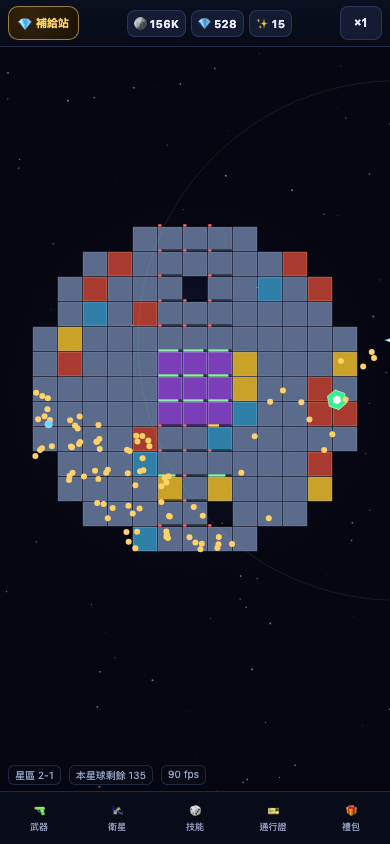
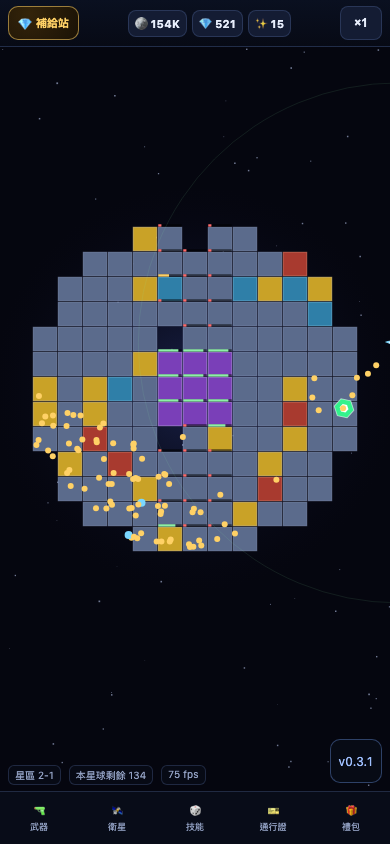
feat(v0.3.1): 右下角版本徽章 + 版本資訊彈窗 + version.json
- 遊戲畫面右下角顯示 v0.3.1（52×44px，由 CFG.VERSION 渲染，不會與程式不同步）
- 點徽章開版本資訊：版本／存檔版本／武器·衛星·通行證數量／星區／已擊破
- 新增 version.json（name/version/saveVersion/commit/build），線上可直接查
- 徽章 z-index 20 低於彈窗 30，彈窗打開時不會壓在內容上
- tests/test_ui.py 加 4 項（徽章文字＝CFG.VERSION、≥44px、彈窗內容、version.json 存在）

diff --git a/js/ui.js b/js/ui.js
@@ -21,6 +21,25 @@
     const spBtn = $('#btnSpeed');
     spBtn.textContent = '×' + sp;
     spBtn.classList.toggle('on', sp > 1);
+    const vb = $('#verBadge');
+    if (vb) vb.textContent = 'v' + CFG.VERSION;
+  }
+
+  /* ---------- 版本資訊（右下徽章點開） ---------- */
+  function showVersion() {
+    const s = State.data;
+    openModal('版本資訊', `
+      <div class="row"><div class="grow"><div class="name">StarBreaker: Unlimited Drill</div>
+        <div class="sub">${T('版本')} <b style="color:#9fc0ff">v${CFG.VERSION}</b></div></div></div>
+      <div class="stat-row">
+        <span class="stat">${T('武器')} <b>${CFG.WEAPONS.length}</b></span>
+        <span class="stat">${T('衛星')} <b>${CFG.SATELLITES.length}</b></span>
+        <span class="stat">${T('通行證')} <b>${CFG.PASS_TIERS.length}</b></span>
+        <span class="stat">${T('星級上限')} <b>5★</b></span>
+      </div>
+      <div class="hint">${T('存檔版本')} v${s.v} ｜ ${T('星區')} ${s.sector}-${s.planet} ｜ ${T('已擊破')} ${BIG.fmtInt(s.stats.blocks || 0)}</div>
+      <div class="hint">${T('線上版本檔')}：<a href="version.json" target="_blank" rel="noopener" style="color:#8ef0a8">version.json</a></div>
+      <div class="hint" style="color:#7d8aa8">${T('要確認線上是不是最新版')}：重新整理後看右下角徽章，或開 version.json。</div>`);
   }
 
   /* ---------- toast ---------- */
@@ -353,6 +372,7 @@
     $('#btnSupply').addEventListener('click', tabSupply);
     $('#modalClose').addEventListener('click', closeModal);
     $('#modal').addEventListener('click', (e) => { if (e.target.id === 'modal') closeModal(); });
+    if ($('#verBadge')) $('#verBadge').addEventListener('click', showVersion);
     $('#btnSpeed').addEventListener('click', () => {
       const next = State.speed() === 1 ? 2 : State.speed() === 2 ? 3 : 1;
       State.data.settings.speed = next;

diff --git a/css/style.css b/css/style.css
@@ -66,6 +66,25 @@ html, body {
 /* ---------- 舞台 ---------- */
 #stage { position: relative; flex: 1 1 auto; min-height: 0; }
 #game { display: block; width: 100%; height: 100%; touch-action: none; }   /* 搖桿用；不要讓瀏覽器把手勢當捲動 */
+.ver-badge {
+  position: absolute;
+  right: 8px;
+  bottom: calc(8px + env(safe-area-inset-bottom, 0px));
+  min-width: 44px;
+  min-height: 44px;
+  padding: 0 8px;
+  border: 1px solid rgba(120, 170, 255, .35);
+  border-radius: 10px;
+  background: rgba(8, 12, 24, .72);
+  color: #9fc0ff;
+  font-size: 12px;
+  font-family: inherit;
+  letter-spacing: .3px;
+  z-index: 20;   /* 低於 .modal(30)：彈窗打開時徽章不會壓在彈窗上 */
+  cursor: pointer;
+}
+.ver-badge:active { background: rgba(40, 70, 130, .8); }
+
 #sectorInfo {
   position: absolute; left: 8px; bottom: 6px;
   display: flex; gap: 8px;

diff --git a/js/config.js b/js/config.js
@@ -2,7 +2,7 @@
 (function (global) {
   'use strict';
 
-  const VERSION = '0.3.0';
+  const VERSION = '0.3.1';
 
   /* ---------- 星球與方塊 ---------- */
   const PLANET = {
@@ -171,6 +171,9 @@
     '全 6 顆衛星解鎖並升至滿星': 'Unlock all 6 satellites (max)',
     '一鍵拉滿所有資源與等級': 'All-in-one: max everything',
     '立即提升倍率': 'raises multiplier now', '第': 'Tier', '階': '',
+    '版本': 'Version', '存檔版本': 'Save ver', '已擊破': 'Blocks broken',
+    '線上版本檔': 'Live version file', '要確認線上是不是最新版': 'To check the live build',
+    '星級上限': 'Max stars',
   };
 
   function T(zh) { return (global.LANG === 'zh') ? zh : (EN[zh] || zh); }

diff --git a/index.html b/index.html
@@ -21,6 +21,7 @@
 
   <div id="stage">
     <canvas id="game"></canvas>
+    <button id="verBadge" class="ver-badge" type="button" aria-label="版本資訊">v—</button>
     <div id="sectorInfo">
       <span id="sectorLabel">星區 1-1</span>
       <span id="blocksLeft">0 blocks</span>

diff --git a/tests/test_ui.py b/tests/test_ui.py
@@ -173,6 +173,23 @@ def main():
         ok("融合後總數下降（3 合 1 生效）", fused["n"] < pre, f"{pre} → {fused['n']}")
         p.click("#modalClose")
 
+        # ---------- 版本徽章（右下角，可點開版本資訊） ----------
+        p.set_viewport_size({"width": 390, "height": 844})
+        time.sleep(0.3)
+        badge = p.eval_on_selector("#verBadge", "e => ({text: e.textContent.trim(), w: e.getBoundingClientRect().width, h: e.getBoundingClientRect().height})")
+        ver = p.evaluate("CFG.VERSION")
+        ok("右下角顯示目前版本", badge["text"] == "v" + ver, f"{badge['text']} vs v{ver}")
+        ok("版本徽章觸控目標 ≥44px", badge["w"] >= 44 and badge["h"] >= 44, f"{badge['w']:.0f}×{badge['h']:.0f}")
+        p.click("#verBadge")
+        time.sleep(0.5)
+        body = p.eval_on_selector(".modal-card", "e => e.innerText")
+        ok("點徽章可看到版本資訊", (ver in body) and ("版本" in body or "Version" in body), body.replace("\n", " | ")[:80])
+        ok("版本彈窗列出武器/衛星/通行證數",
+           all(k in body for k in ["10", "6", "50"]), body.replace("\n", " | ")[:80])
+        p.click("#modalClose")
+        time.sleep(0.3)
+        ok("有 version.json 可直接查線上版本", os.path.exists(os.path.join(ROOT, "version.json")))
+
         # ---------- SafeArea / 無橫向溢出 ----------
         for w, h in [(390, 844), (360, 640), (320, 568)]:
             p.set_viewport_size({"width": w, "height": h})
